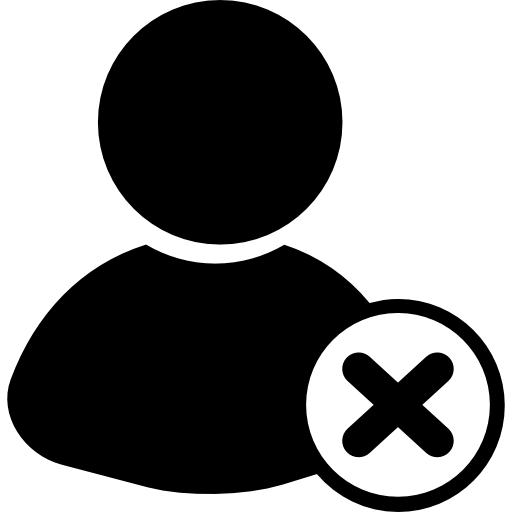
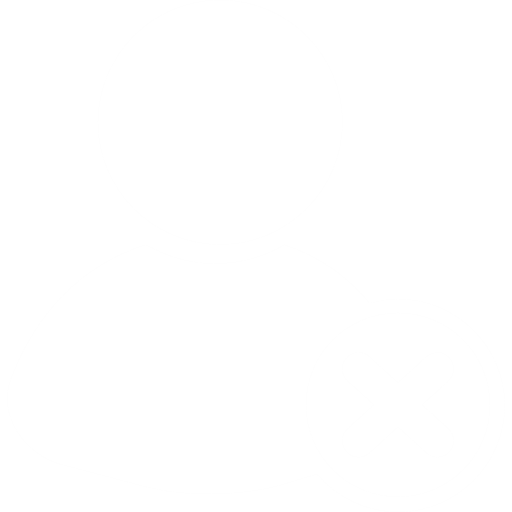
fixat lite
ändrat login/logout logga, tagit bort gamla bilder
Håller på med css för mobilvy i course-komponent

diff --git a/tddd27-project/src/components/common/course/Course.jsx b/tddd27-project/src/components/common/course/Course.jsx
@@ -209,16 +209,15 @@ function Course({
                                         individual courses afterwards.
                                     </div>
                                 </div>
-                            </div>
-
-                            <div className="save-all-row">
-                                <button
-                                    id="saveButton"
-                                    onClick={onSaveAll}
-                                    disabled={!selectedSpecialisation}
-                                >
-                                    Save all courses
-                                </button>
+                                <div className="save-all-row">
+                                    <button
+                                        id="saveButton"
+                                        onClick={onSaveAll}
+                                        disabled={!selectedSpecialisation}
+                                    >
+                                        Save all courses
+                                    </button>
+                                </div>
                             </div>
                         </div>
                     )}

diff --git a/tddd27-project/src/components/common/login/Login.jsx b/tddd27-project/src/components/common/login/Login.jsx
@@ -7,8 +7,8 @@ import {
     onAuthStateChanged,
 } from "firebase/auth";
 
-import loginIcon from "/src/assets/images/login.svg";
-import logoutIcon from "/src/assets/images/logut.svg";
+import loginIcon from "/src/assets/images/login.png";
+import logoutIcon from "/src/assets/images/logout.png";
 
 import "./Login.css";
 import DeleteAccountButton from "../deleteAccountButton/DeleteAccountButton";